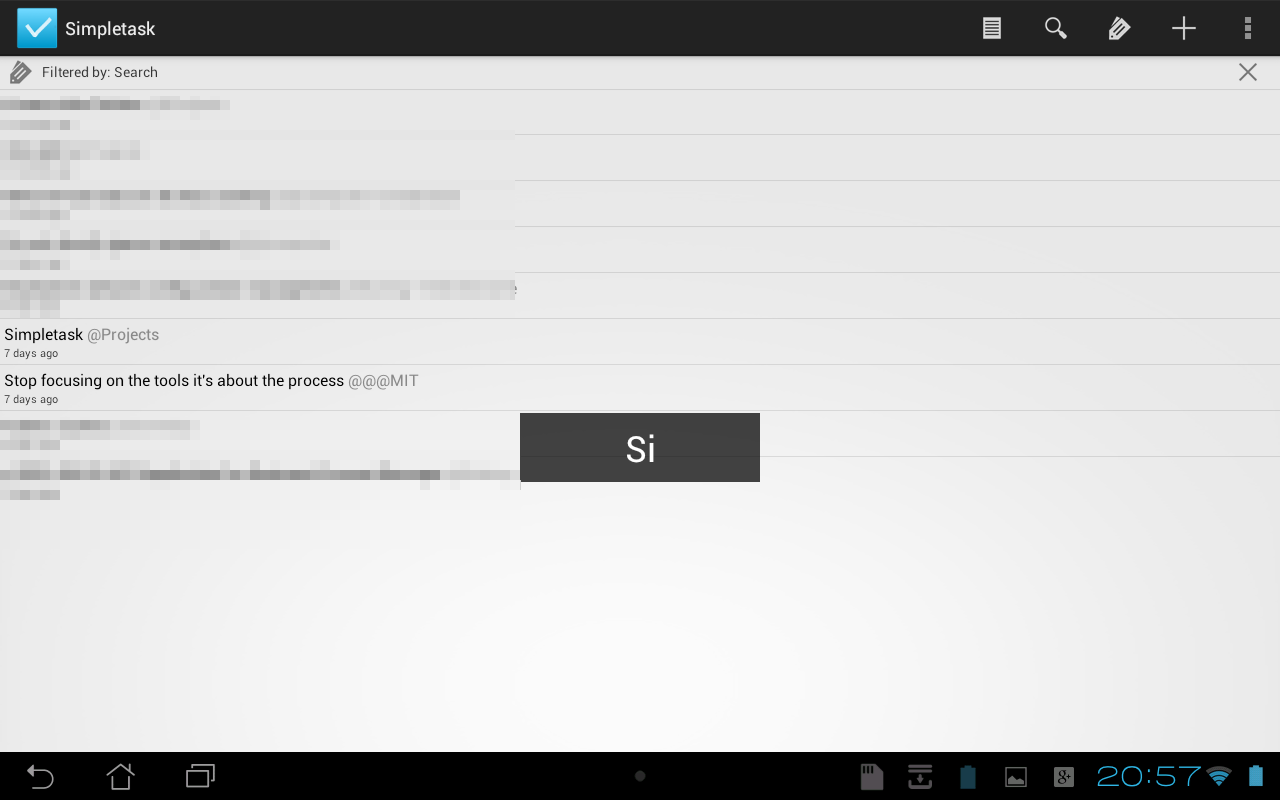
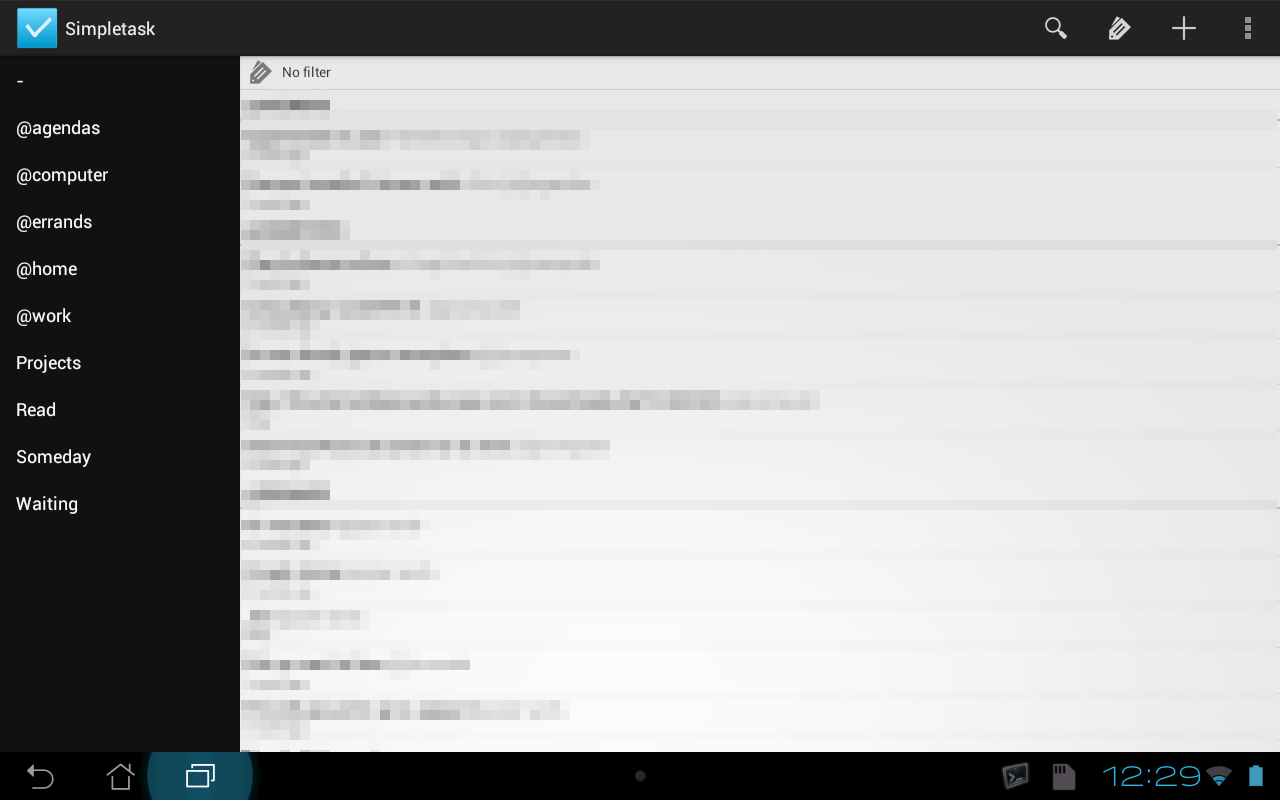
Landscape tablet layout
FossilOrigin-Name: ece5f282f4a60dd826dcdb1695d78d6f93c08dd031bcbdb6974d23fe0c3b0f98

diff --git a/src/nl/mpcjanssen/simpletask/Simpletask.java b/src/nl/mpcjanssen/simpletask/Simpletask.java
@@ -107,20 +107,24 @@ public class Simpletask extends ListActivity implements
 	protected void onPostCreate(Bundle savedInstanceState) {
 		super.onPostCreate(savedInstanceState);
 		// Sync the toggle state after onRestoreInstanceState has occurred.
-		m_drawerToggle.syncState();
+		if (m_drawerToggle!=null) {
+			m_drawerToggle.syncState();
+		}
 	}
 
 	@Override
 	public void onConfigurationChanged(Configuration newConfig) {
 		super.onConfigurationChanged(newConfig);
-		m_drawerToggle.onConfigurationChanged(newConfig);
+		if (m_drawerToggle != null) {
+			m_drawerToggle.onConfigurationChanged(newConfig);
+		}
 	}
 
 	@Override
 	public boolean onOptionsItemSelected(MenuItem item) {
 		// Pass the event to ActionBarDrawerToggle, if it returns
 		// true, then it has handled the app icon touch event
-		if (m_drawerToggle.onOptionsItemSelected(item)) {
+		if (m_drawerToggle!=null && m_drawerToggle.onOptionsItemSelected(item)) {
 			return true;
 		}
 		// Handle your other action bar items...
@@ -218,7 +222,6 @@ public class Simpletask extends ListActivity implements
 		m_search = null;
 
 		m_drawerList = (ListView) findViewById(R.id.left_drawer);
-		m_drawerLayout = (DrawerLayout) findViewById(R.id.drawer_layout);
 
 		// Set the adapter for the list view
 		updateDrawerList();
@@ -226,30 +229,38 @@ public class Simpletask extends ListActivity implements
 		// Set the list's click listener
 		m_drawerList.setOnItemClickListener(new DrawerItemClickListener());
 
-		m_drawerToggle = new ActionBarDrawerToggle(this, /* host Activity */
-		m_drawerLayout, /* DrawerLayout object */
-		R.drawable.ic_drawer, /* nav drawer icon to replace 'Up' caret */
-		R.string.changelist, /* "open drawer" description */
-		R.string.app_label /* "close drawer" description */
-		) {
+		m_drawerLayout = (DrawerLayout) findViewById(R.id.drawer_layout);
+		if (m_drawerLayout != null) {
+			// Not in tablet landscape mode
+			
+			m_drawerToggle = new ActionBarDrawerToggle(this, /* host Activity */
+			m_drawerLayout, /* DrawerLayout object */
+			R.drawable.ic_drawer, /* nav drawer icon to replace 'Up' caret */
+			R.string.changelist, /* "open drawer" description */
+			R.string.app_label /* "close drawer" description */
+			) {
 
-			/** Called when a drawer has settled in a completely closed state. */
-			public void onDrawerClosed(View view) {
-				//setTitle(R.string.app_label);
-			}
+				/**
+				 * Called when a drawer has settled in a completely closed
+				 * state.
+				 */
+				public void onDrawerClosed(View view) {
+					// setTitle(R.string.app_label);
+				}
 
-			/** Called when a drawer has settled in a completely open state. */
-			public void onDrawerOpened(View drawerView) {
-				//setTitle(R.string.changelist);
-			}
-		};
+				/** Called when a drawer has settled in a completely open state. */
+				public void onDrawerOpened(View drawerView) {
+					// setTitle(R.string.changelist);
+				}
+			};
 
-		// Set the drawer toggle as the DrawerListener
-		m_drawerLayout.setDrawerListener(m_drawerToggle);
-		getActionBar().setDisplayHomeAsUpEnabled(true);
-		getActionBar().setHomeButtonEnabled(true);
-		m_drawerToggle.syncState();
-		
+			// Set the drawer toggle as the DrawerListener
+			m_drawerLayout.setDrawerListener(m_drawerToggle);
+			getActionBar().setDisplayHomeAsUpEnabled(true);
+			getActionBar().setHomeButtonEnabled(true);
+			m_drawerToggle.syncState();
+		}
+
 		// Show search or filter results
 		Intent intent = getIntent();
 		if (savedInstanceState != null) {
@@ -1438,7 +1449,9 @@ public class Simpletask extends ListActivity implements
 			String listName = tv.getText().toString();
 			Log.v(TAG, "Clicked on drawer " + listName);
 			changeList(listName);
-			m_drawerLayout.closeDrawer(m_drawerList);
+			if (m_drawerLayout!=null) {
+				m_drawerLayout.closeDrawer(m_drawerList);
+			}
 		}
 	}
 
